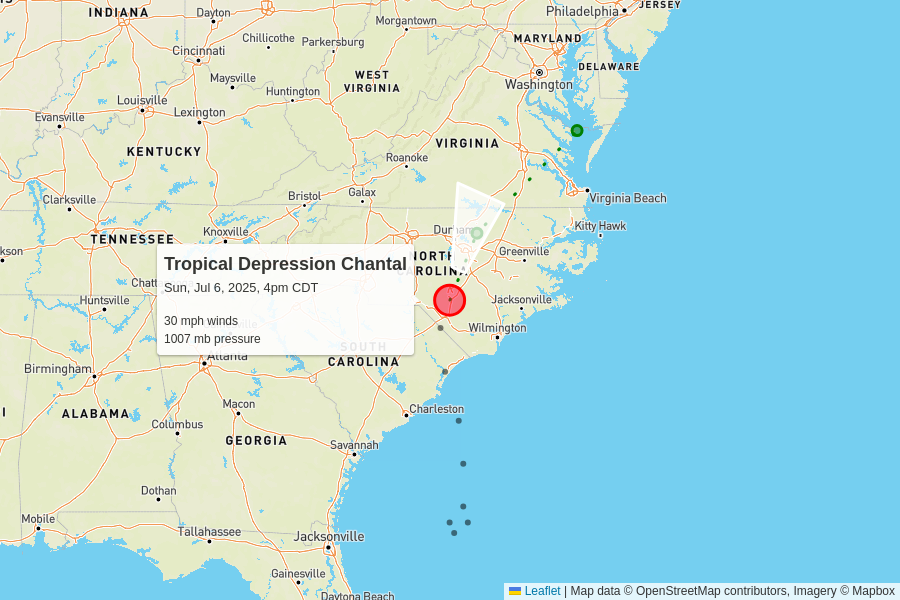
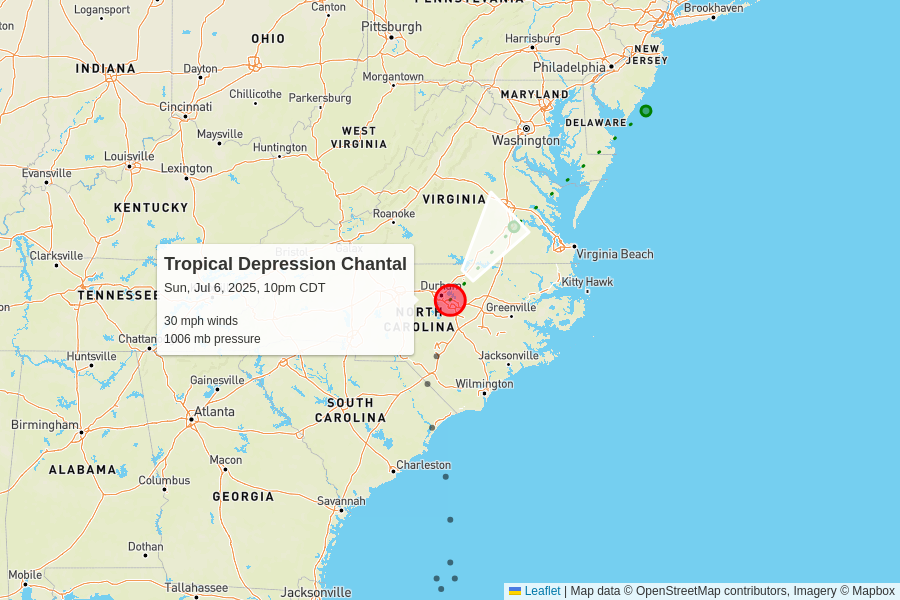
automatic update

diff --git a/docs/index.html b/docs/index.html
@@ -102,7 +102,7 @@
         <td colspan="6" class="storm category-0" >
           <h2>
             Tropical Depression Chantal
-            <p class="updated">last updated <span data-time>2025-07-06T21:00:00.000Z</span></p>
+            <p class="updated">last updated <span data-time>2025-07-07T03:00:00.000Z</span></p>
           </h2>
         </td>
       </tr>
@@ -117,12 +117,12 @@
       </tr>
       <tr>
         <td class="spacer"></td>
-        <td>30 mph<br>-5 mph since last update</td>
-        <td>1007 mb<br>0 mb since last update</td>
+        <td>30 mph<br>0 mph since last update</td>
+        <td>1006 mb<br>-1 mb since last update</td>
         <td>
-          10 mph to the north-northeast
+          12 mph to the northeast
           <br/>
-          <span style="display: inline-block; font-size: 1.5em; transform: rotate(20deg);">↑</span>
+          <span style="display: inline-block; font-size: 1.5em; transform: rotate(40deg);">↑</span>
         </td>
         <td><a href="https://raw.githubusercontent.com/mgwalker/atlantic-hurricanes/main/data/csv/AL032025.csv">AL032025.csv</a></td>
         <td><a href="https://www.nhc.noaa.gov/archive/2025/CHANTAL.shtml?">NHC advisories</a></td>
